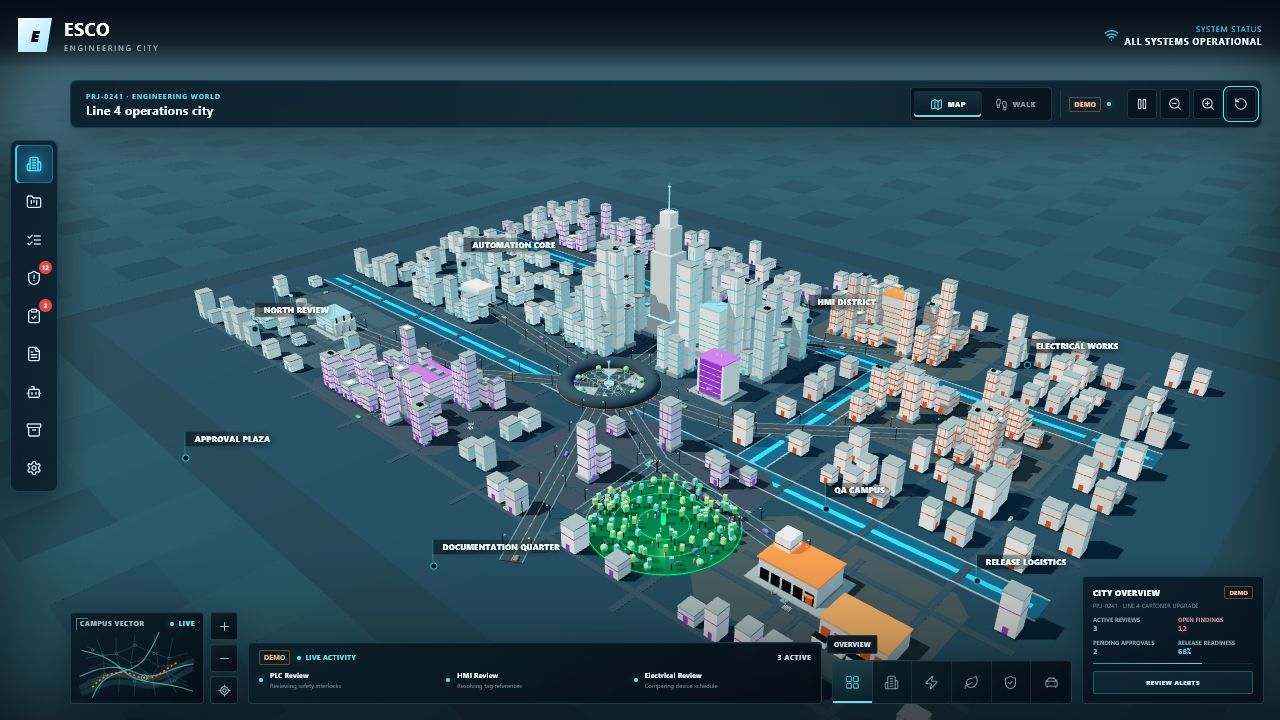
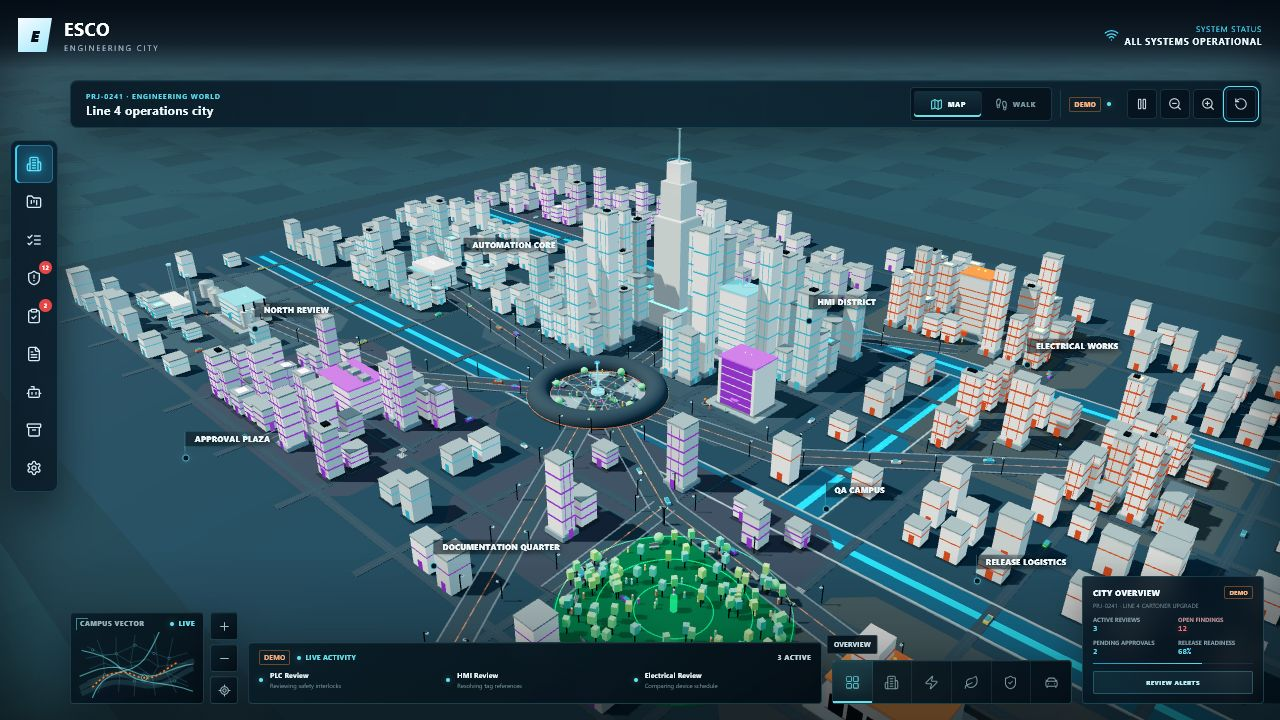
product: enlarge the city overview

diff --git a/frontend/src/components/ThreeCity.tsx b/frontend/src/components/ThreeCity.tsx
@@ -143,7 +143,7 @@ interface FirstPersonLook {
 const HUB: Point2 = [4, 20];
 const LANDMARK: Point2 = [-5, -11];
 const PARK: Point2 = [50, 52];
-const OVERVIEW_POSITION: Vec3 = [138, 99, 152];
+const OVERVIEW_POSITION: Vec3 = [104, 75, 115];
 const OVERVIEW_TARGET: Vec3 = [0, 0, 5];
 const OVERVIEW_FOV = 44;
 const FIRST_PERSON_START: Vec3 = [38, 1.86, 78];

diff --git a/docs/product/PRODUCT.md b/docs/product/PRODUCT.md
@@ -11,7 +11,7 @@ ESCO Engineering City is a local engineering-operations workspace. Its multi-dis
 - Agent positions derive from semantic workflow state, never random movement.
 - The home is an immersive Three.js WebGL digital-twin world with a central skyline, eight workflow districts, hundreds of deterministic instanced buildings, connected metropolitan blocks, roads, bridges, waterways, industrial and logistics infrastructure, and layered system overlays.
 - The city is visibly active: deterministic demo traffic moves in both directions, pedestrians circulate through the plaza, park, and engineering forecourts, water and workflow routes pulse, and building beacons/windows change over time. Pause and reduced-motion freeze this ambient activity.
-- The overview opens as a perspective flat world with a broad horizon, then supports free 360° drag orbit plus wheel or pinch zoom without requiring first-person mode. Reset restores the original composition, while a separate first-person mode provides street-level exploration.
+- The overview opens close to the skyline so the city reads at metropolitan scale while retaining the broad flat-world horizon, then supports free 360° drag orbit plus wheel or pinch zoom without requiring first-person mode. Reset restores the opening composition, while a separate first-person mode provides street-level exploration.
 - Its visual language uses a daylight-blue environment, continuous block-tiled terrain, luminous cyan infrastructure and water, orange mobility routes, purple district accents, and varied green public space. The subtle chunk variation gives the surrounding world a voxel-built scale without reintroducing a global black grid or visible platform edges.
 - The city-first chrome is one coherent spectator interface: a compact navigation rail, unified command bar, lightweight spatial labels, a small minimap, a clearly marked synthetic activity strip, compact layers, and an operational summary frame the world without shrinking it into a dashboard card.
 - Demo records are always marked `DEMO DATA`.
